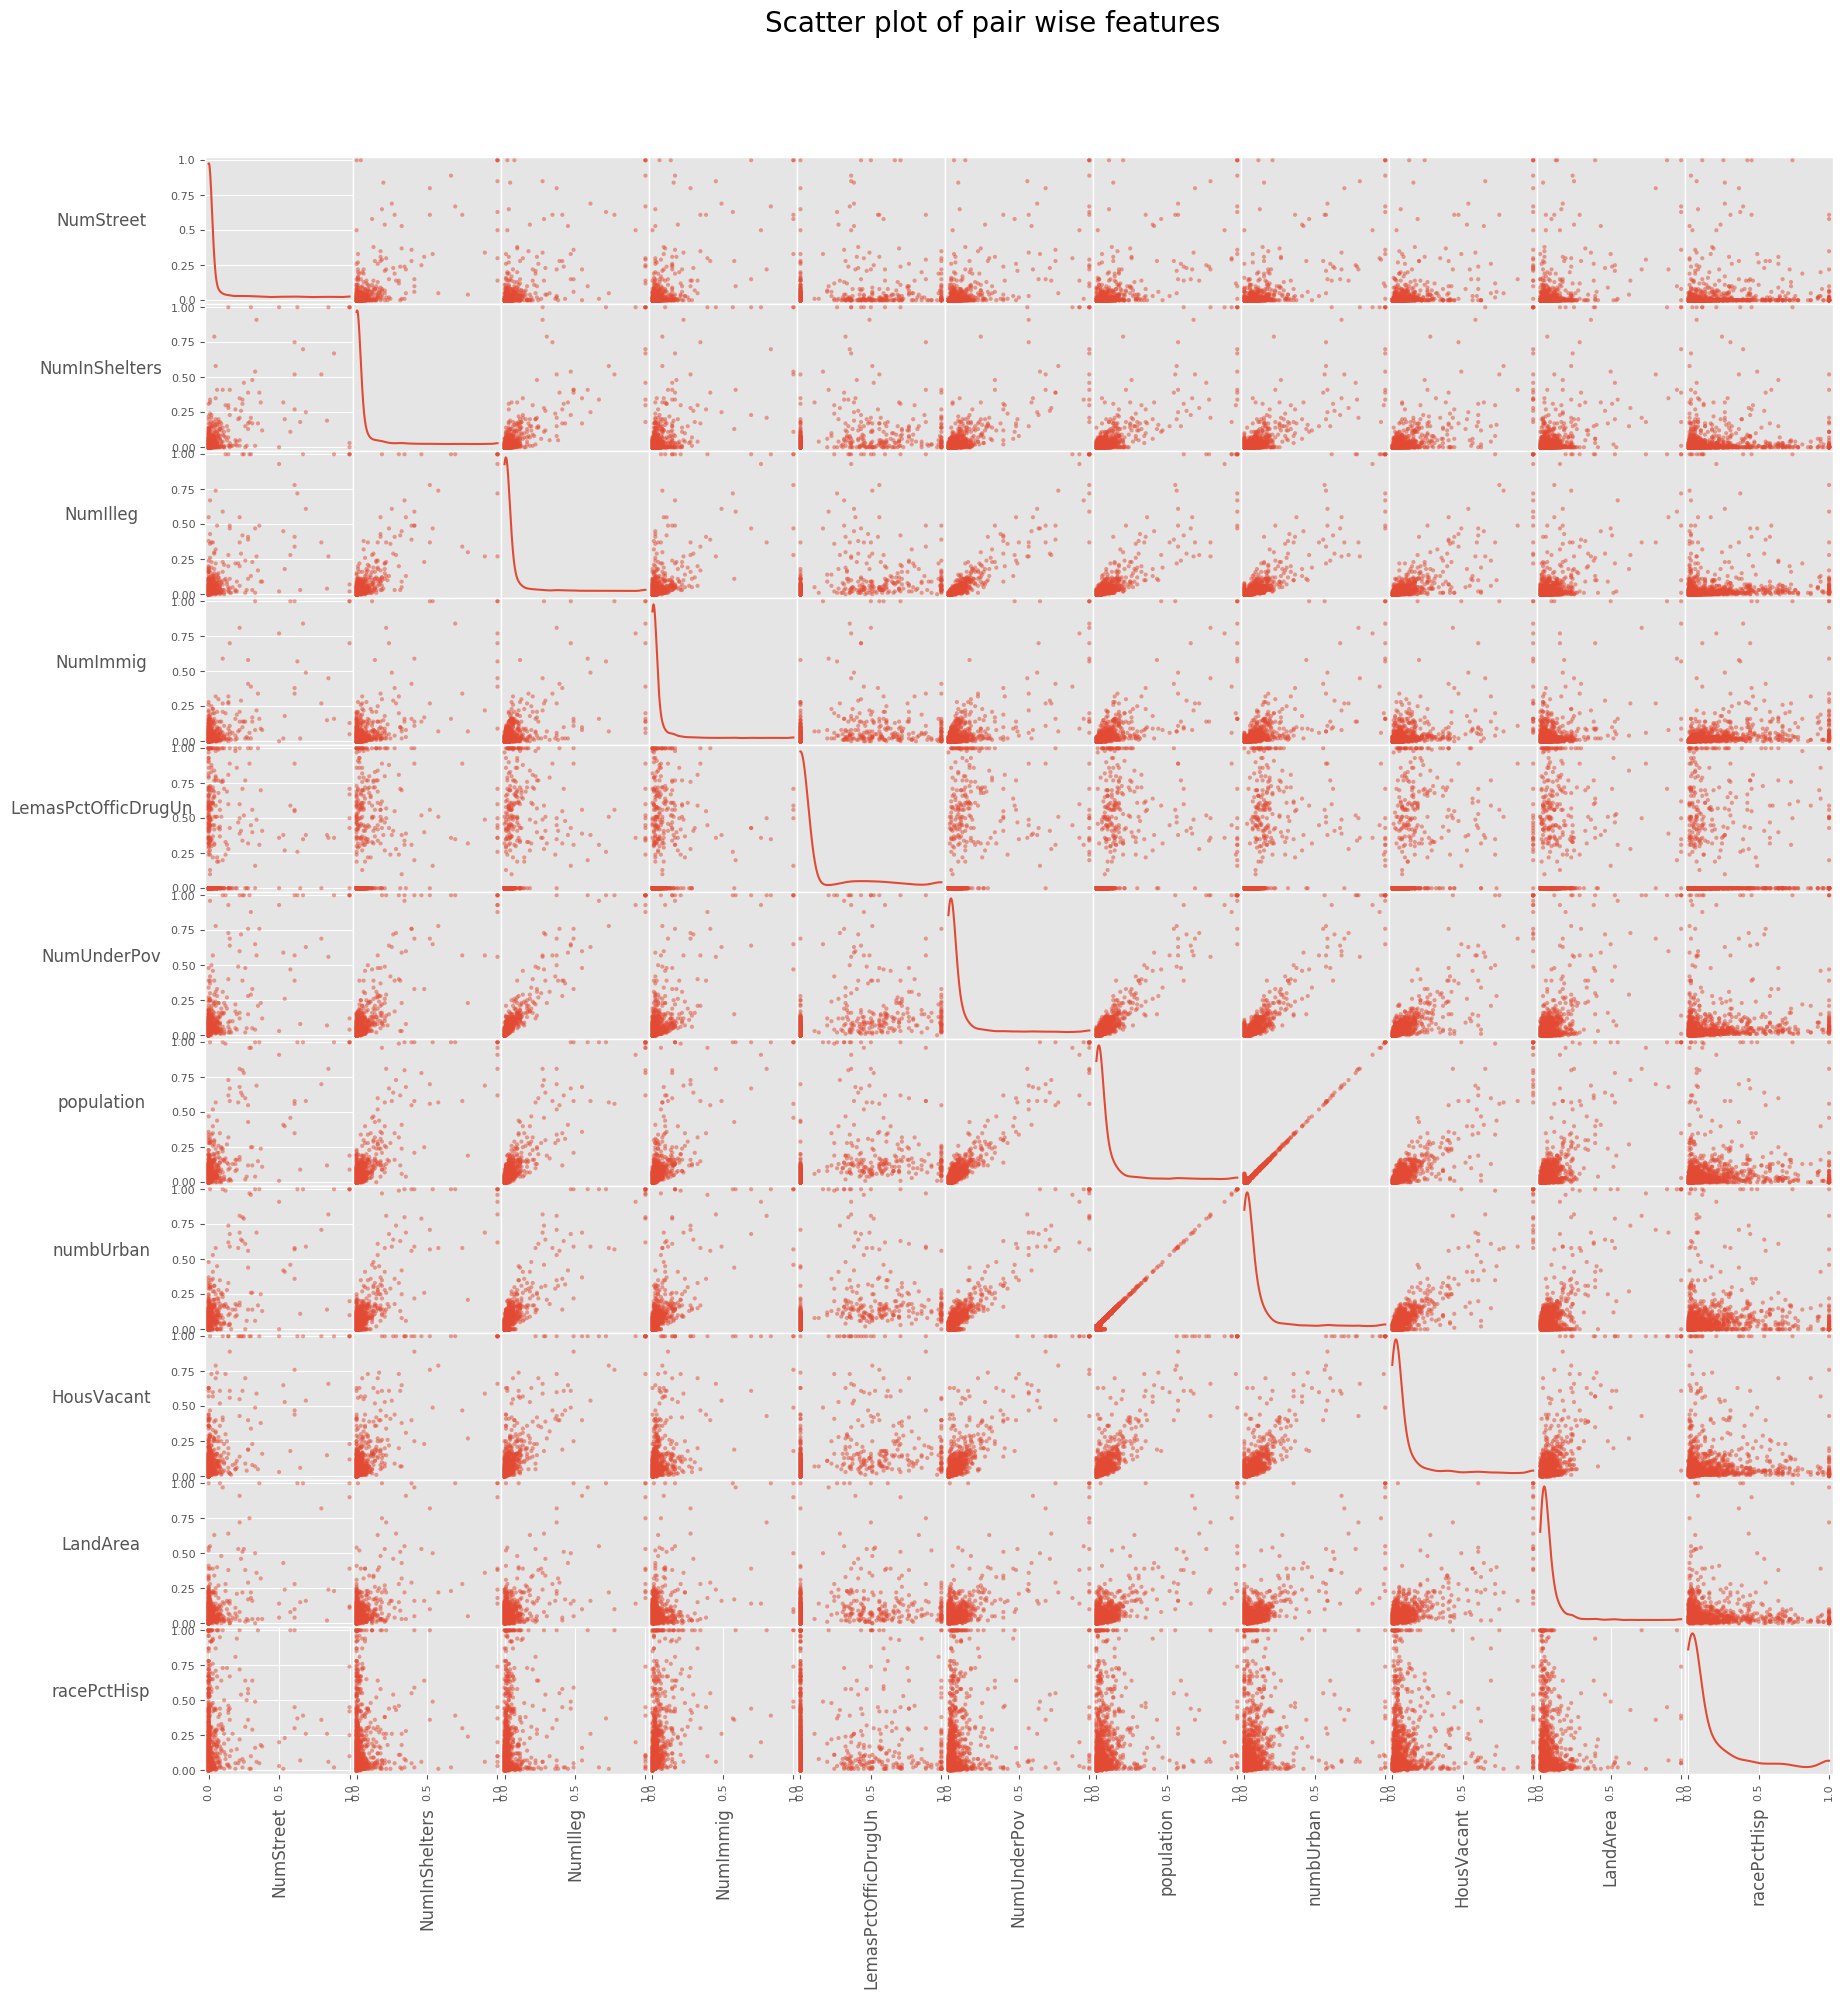
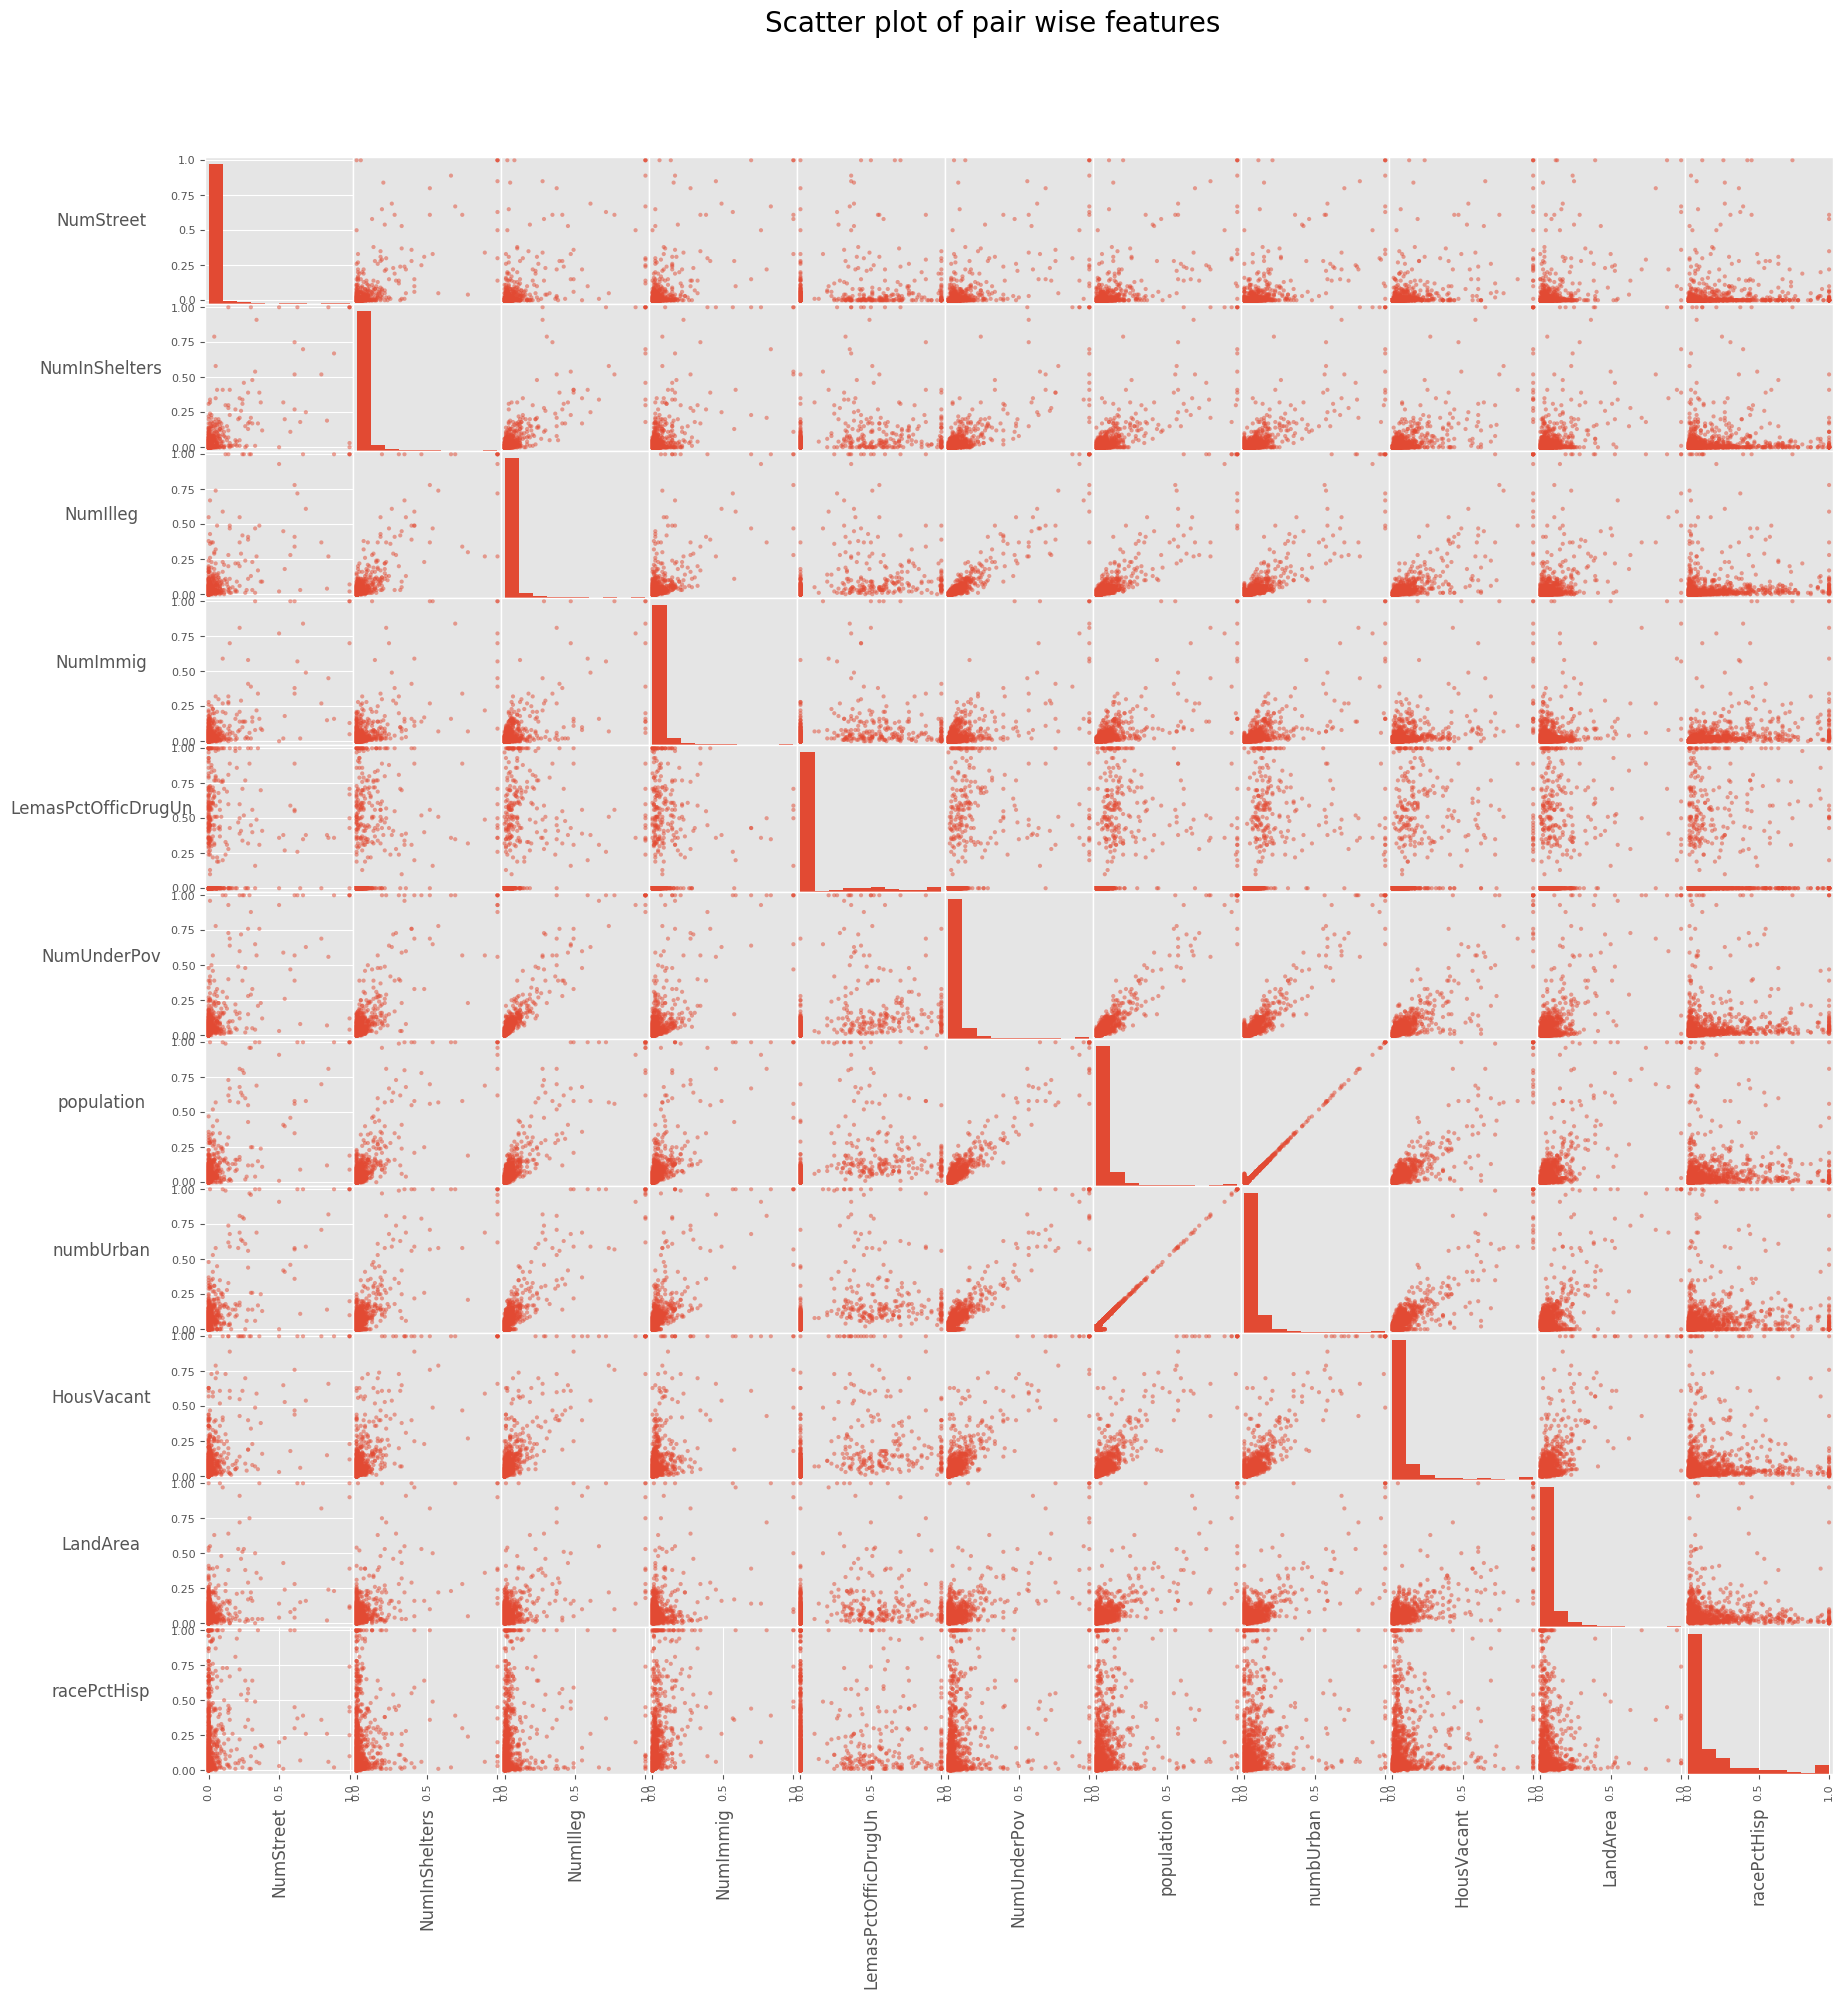
add conclusions

diff --git a/1.py b/1.py
@@ -90,7 +90,7 @@ def e_plots():
     plt.savefig("./plots/1_e_scatter_plots_response.png", bbox_inches='tight')
     plt.close()
 
-    axs = scatter_matrix(box_plot_data, figsize=(21, 21), diagonal='kde')
+    axs = scatter_matrix(box_plot_data, figsize=(21, 21))
     n = len(box_plot_data.columns)
     for x in range(n):
         for y in range(n):

diff --git a/README.md b/README.md
@@ -158,7 +158,11 @@
 -   ![alt text](./plots/1_e_scatter_plots.png "pairwise scatter plot")
 -   ![alt text](./plots/1_e_scatter_plots_response.png "response feature scatter plot")
 -   ![alt text](./plots/1_e_boxplot.png "box plot")
--   ~TODO: Conclusions~
+        
+    *There are some linear relations between features, one of them are more likey to be discarded by 
+    feature selection algorithms*   
+    *There are also some features where values are all over the space. which might not yield
+    better results*
 
 ### f) Linear Regression:
 
